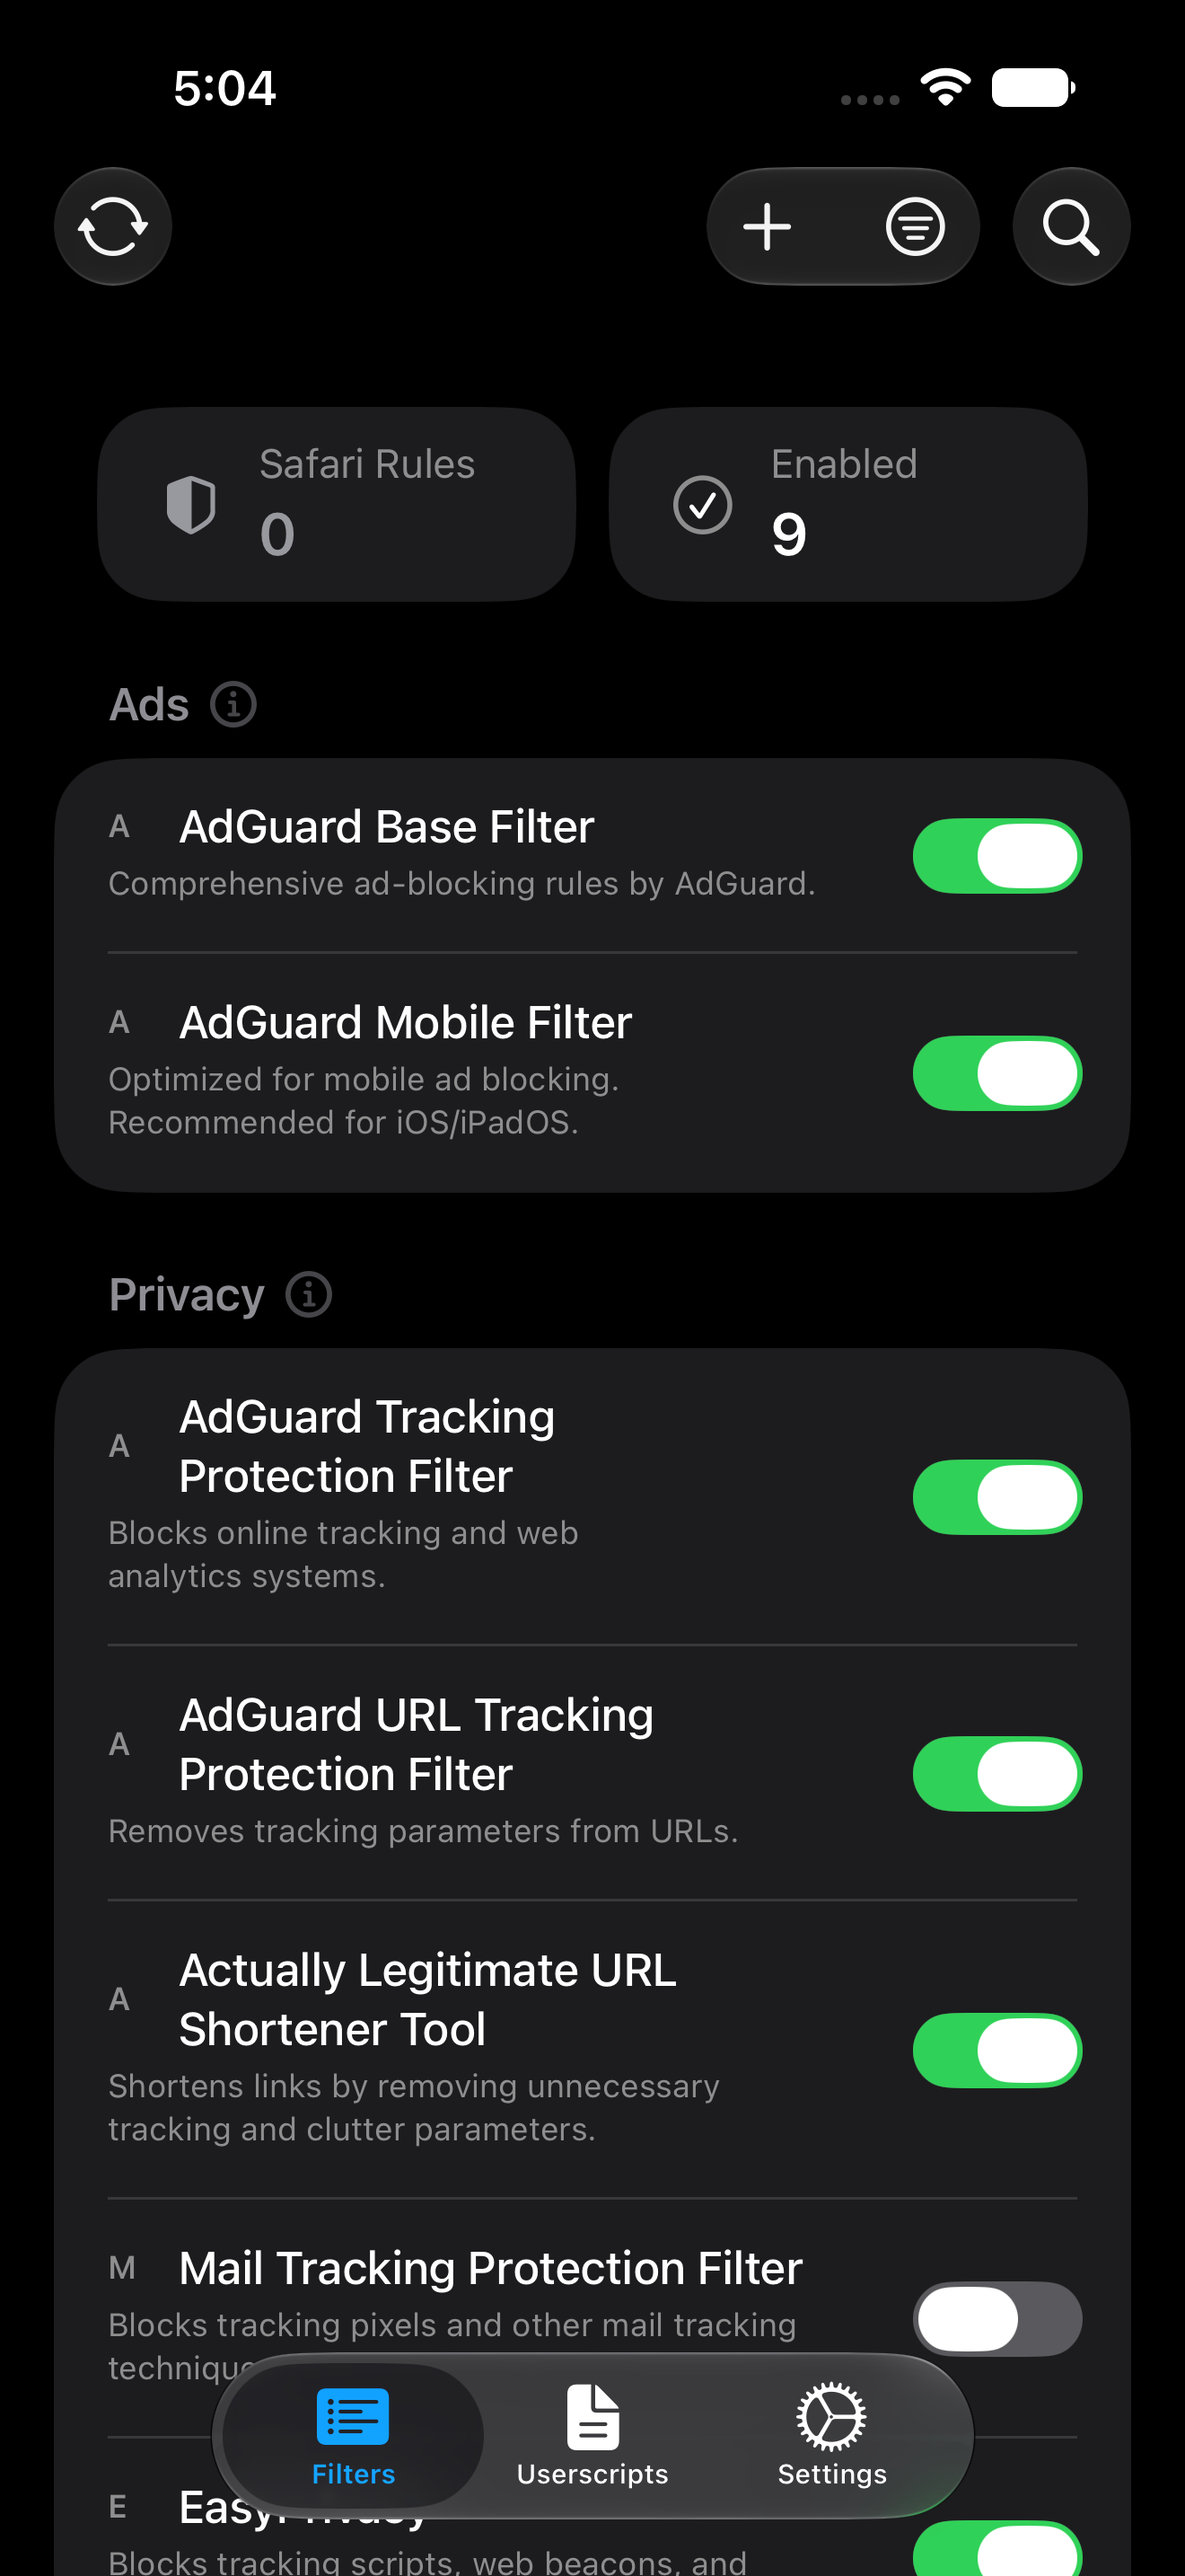
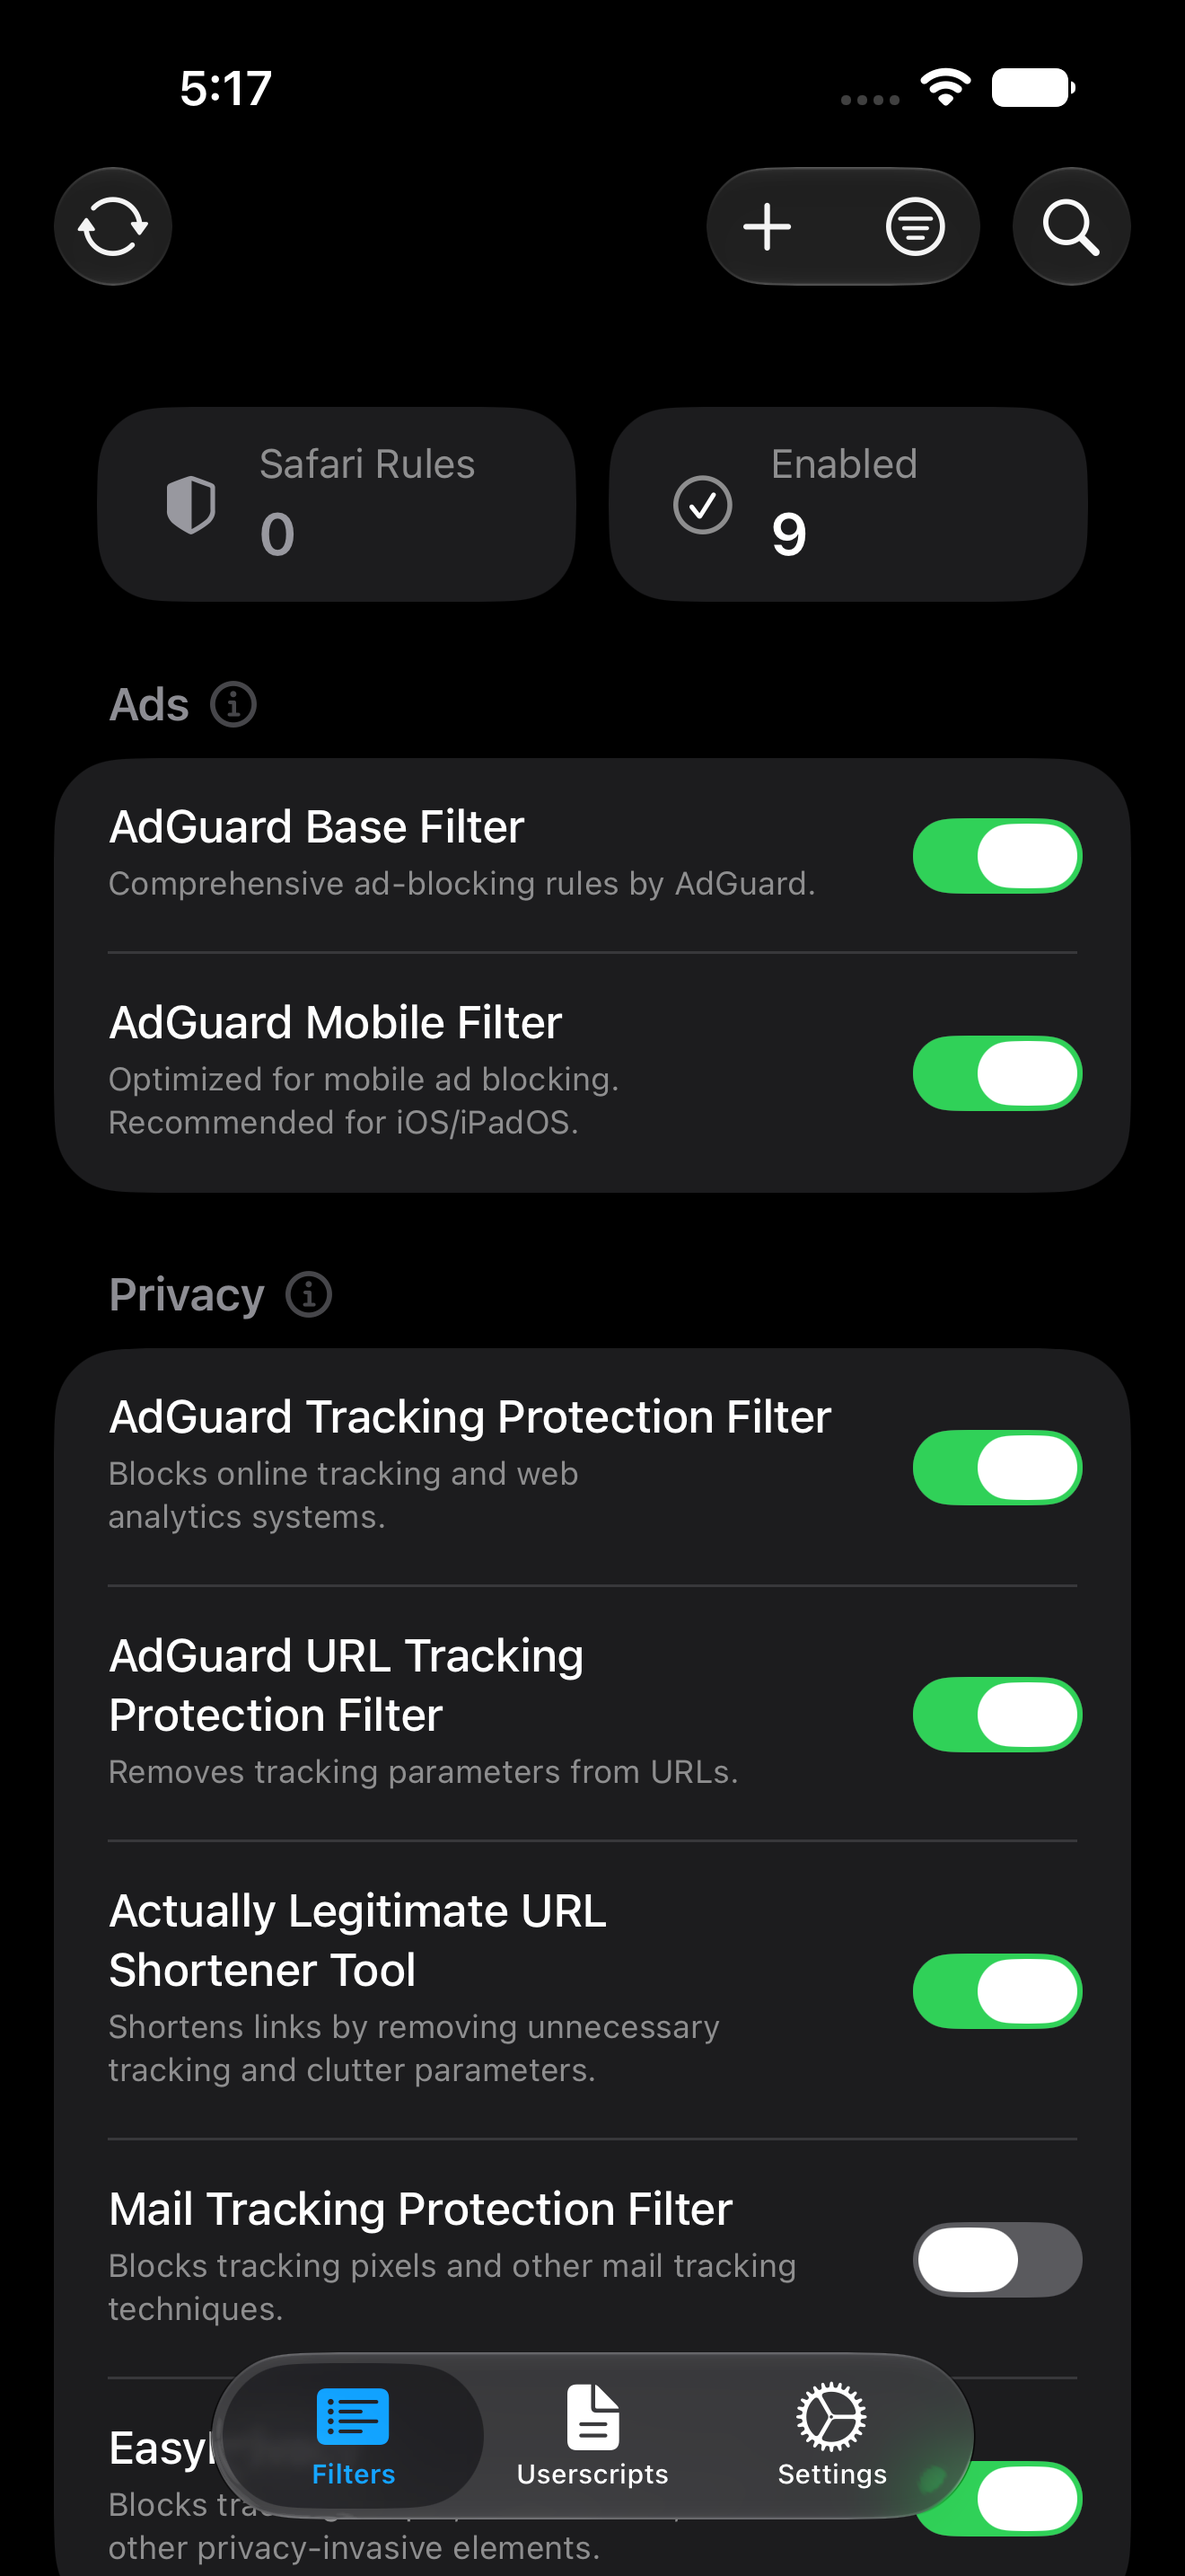
Remove redundant filter list initials

diff --git a/wBlock/ContentView.swift b/wBlock/ContentView.swift
@@ -729,10 +729,9 @@ struct FilterRowView: View {
         HStack(alignment: .center, spacing: 10) {
             VStack(alignment: .leading, spacing: 4) {
                 HStack(spacing: 6) {
-                    Text(String(filter.localizedDisplayName.prefix(1)))
-                        .font(.caption.weight(.semibold))
-                        .foregroundStyle(.secondary)
-                        .frame(width: 20, alignment: .leading)
+                    if let flags = filter.flagEmojis {
+                        Text(flags)
+                    }
                     Text(filter.localizedDisplayName)
                         .fontWeight(.medium)
                         .foregroundStyle(.primary)

diff --git a/scripts/test_issue_508_ui_contract.swift b/scripts/test_issue_508_ui_contract.swift
@@ -33,6 +33,11 @@ require(content, "stagedFile != nil")
 require(content, "Text(\"Change File\")")
 require(content, "case .paste, .file: return \"Add\"")
 require(content, "FilterListContentValidator.isSupportedLocalFile")
+require(content, "if let flags = filter.flagEmojis")
+requireCondition(
+    !content.contains("Text(String(filter.localizedDisplayName.prefix(1)))"),
+    "filter rows must not repeat list-name initials as decorative labels"
+)
 let scripts = try source("wBlock/UserScriptManagerView.swift")
 let addContentShell = try source("wBlock/AddContentShell.swift")
 require(addContentShell, "protocol AddContentMode")
